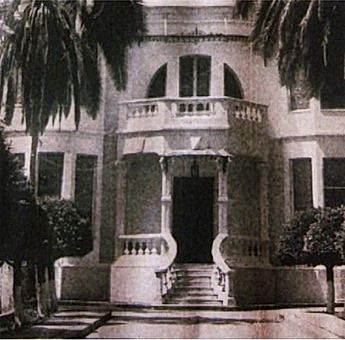
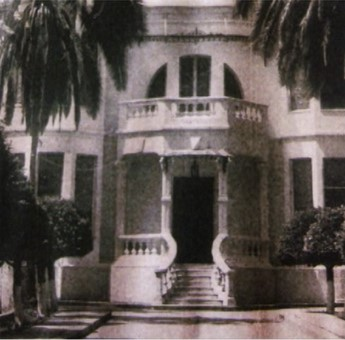
allies

diff --git a/app/aliados/page.tsx b/app/aliados/page.tsx
@@ -23,33 +23,15 @@ const allies: {
   link?: string | null
 }[] = [
   {
-    id: "aquantys",
-    name: "Aquantys",
-    logo: "/aliados/Aquantys.jpg",
-    logoContainerClassName: "bg-white",
-  },
-  {
     id: "asogin",
     name: "Asogin",
     logo: "/aliados/Asogin.jpg",
     logoContainerClassName: "bg-white",
   },
   {
-    id: "atelier-de-pintores",
-    name: "Atelier de Pintores",
-    logo: "/aliados/Atelier de Pintores.jpg",
-    logoContainerClassName: "bg-white",
-  },
-  {
     id: "ayl-impresion-digital",
     name: "AyL Impresión digital",
-    logo: "/aliados/AyL Impresión digital.jpg",
-    logoContainerClassName: "bg-white",
-  },
-  {
-    id: "casa-avepane",
-    name: "Casa Avepane",
-    logo: "/aliados/Casa Avepane.jpg",
+    logo: "/aliados/ayl-impresion-digital.jpg",
     logoContainerClassName: "bg-white",
   },
   {
@@ -64,18 +46,21 @@ const allies: {
     logo: "/aliados/Colegio Marbe.jpg",
     logoContainerClassName: "bg-white",
   },
+  /*
   {
     id: "consejo-municipal-de-baruta",
     name: "Consejo Municipal de Baruta",
     logo: "/aliados/Consejo Municipal de Baruta.jpg",
     logoContainerClassName: "bg-white",
   },
+  */
   {
     id: "cygne-porcelanas",
     name: "Cygne Porcelanas",
     logo: "/aliados/Cygne Porcelanas.jpg",
     logoContainerClassName: "bg-white",
   },
+  /*
   {
     id: "digitel",
     name: "Digitel",
@@ -88,6 +73,7 @@ const allies: {
     logo: "/aliados/Movistar Venezuela.jpg",
     logoContainerClassName: "bg-white",
   },
+  */
   {
     id: "paramas",
     name: "Paramas",
@@ -100,16 +86,18 @@ const allies: {
     logo: "/aliados/Prenta CCS.jpg",
     logoContainerClassName: "bg-white",
   },
+  /*
   {
     id: "que-marquesas",
     name: "Que Marquesas",
     logo: "/aliados/Que Marquesas.jpg",
     logoContainerClassName: "bg-white",
   },
+  */
   {
     id: "vivero-la-montanita",
     name: "Vivero La Montañita",
-    logo: "/aliados/Vivero La Montañita.jpg",
+    logo: "/aliados/vivero-la-montanita.jpg",
     logoContainerClassName: "bg-white",
   },
   {
@@ -136,6 +124,24 @@ const allies: {
     name: "Jabalí Coffee Club",
     logo: "/aliados/logo-jabali-coffee-club.jpg",
     logoContainerClassName: "bg-black",
+  },
+  {
+    id: "morsas-superstore",
+    name: "Morsas Superstore",
+    logo: "/aliados/Morsas Superstore.jpeg",
+    logoContainerClassName: "bg-white",
+  },
+  {
+    id: "artesanos",
+    name: "Artesanos",
+    logo: "/aliados/Artesanos.jpeg",
+    logoContainerClassName: "bg-white",
+  },
+  {
+    id: "serigrafia-total",
+    name: "Serigrafía Total",
+    logo: "/aliados/serigrafia total.jpeg",
+    logoContainerClassName: "bg-white",
   },
 ]
 
@@ -190,7 +196,7 @@ export default function AlliesPage() {
             {allies.map((ally) => (
               <Card key={ally.id} className="border-border bg-background shadow-sm transition-shadow hover:shadow-lg overflow-hidden">
                 <div
-                  className={`relative flex h-[220px] w-full items-center justify-center p-6 ${ally.logoContainerClassName}`}
+                  className={`relative flex h-[220px] w-full items-center justify-center p-2 ${ally.logoContainerClassName}`}
                 >
                   {ally.link ? (
                     <a href={ally.link} target="_blank" rel="noopener noreferrer" className="relative flex h-full w-full items-center justify-center">
@@ -198,7 +204,7 @@ export default function AlliesPage() {
                         src={ally.logo}
                         alt={`Logo de ${ally.name}`}
                         fill
-                        className="object-contain p-4"
+                        className="object-contain p-2"
                       />
                     </a>
                   ) : (
@@ -207,7 +213,7 @@ export default function AlliesPage() {
                         src={ally.logo}
                         alt={`Logo de ${ally.name}`}
                         fill
-                        className="object-contain p-4"
+                        className="object-contain p-2"
                       />
                     </div>
                   )}
